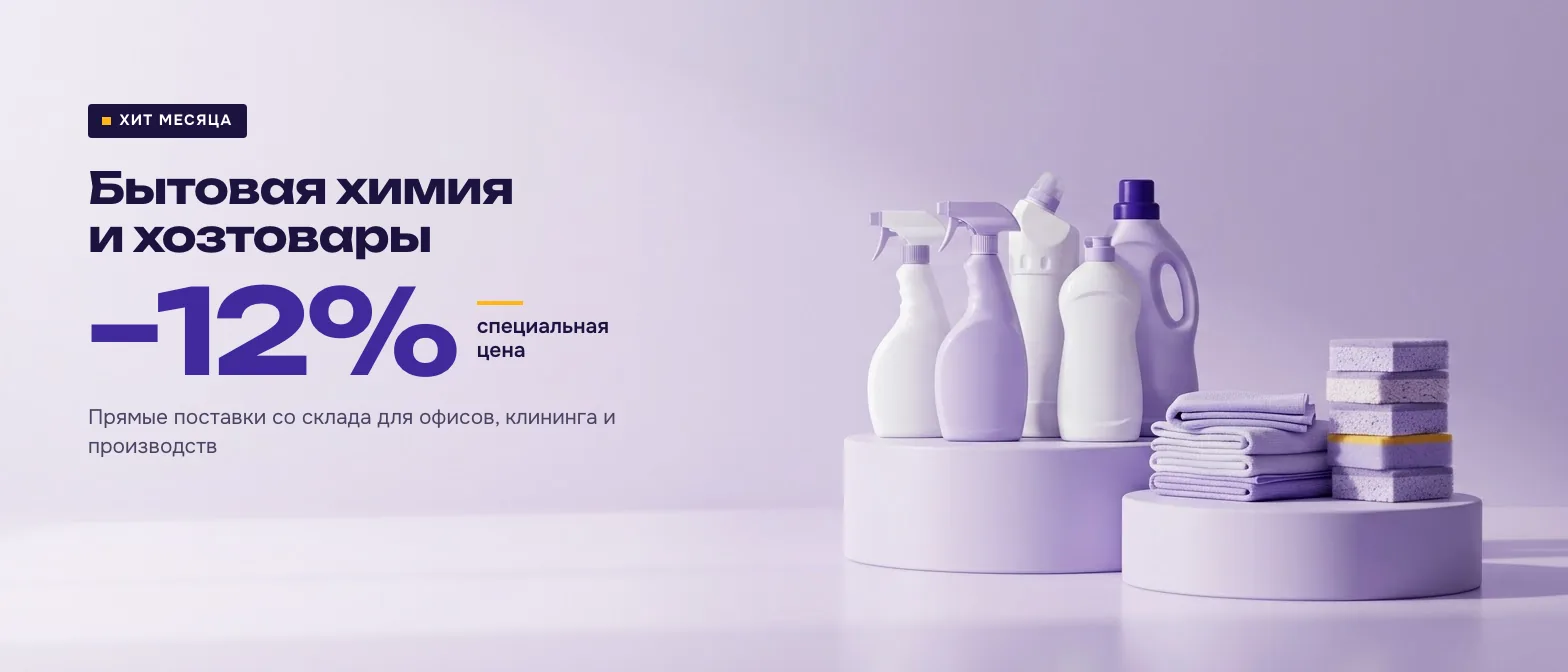
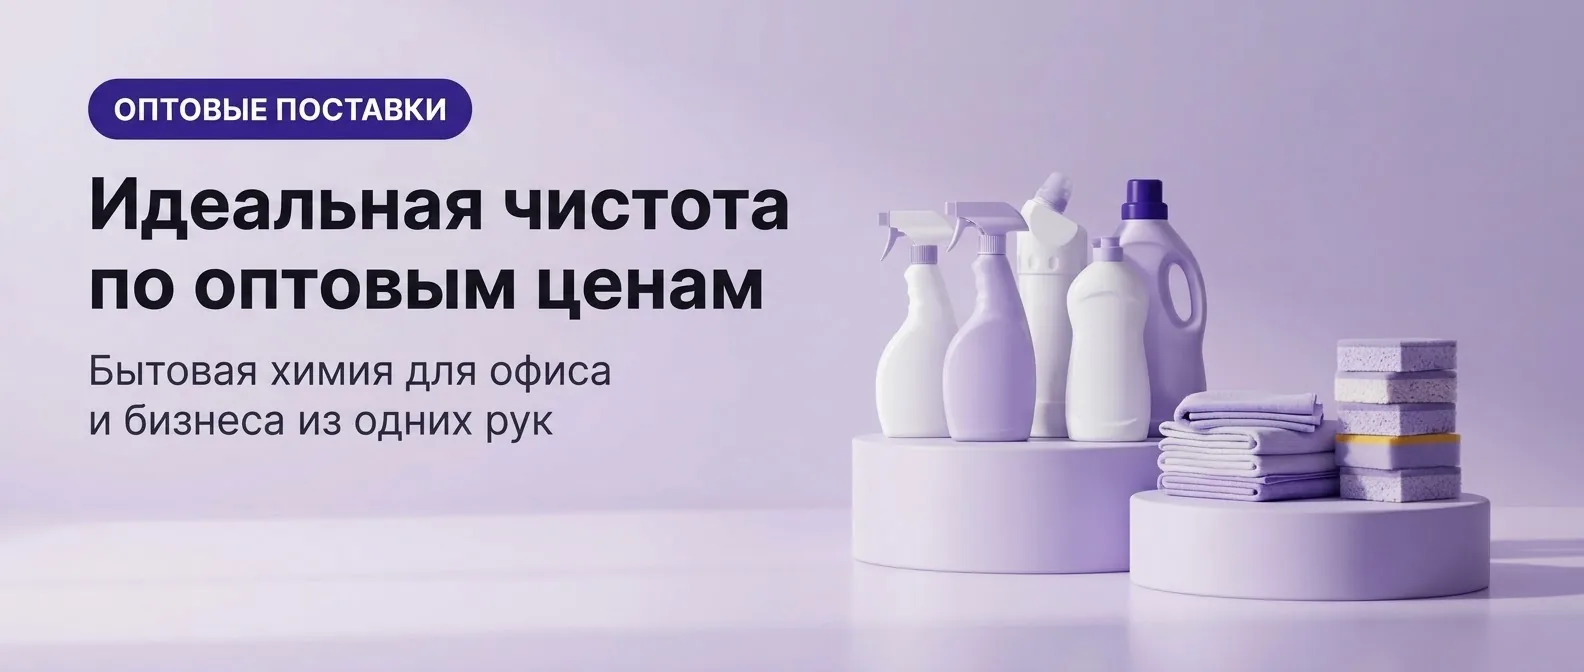
Ruscha maishiy kimyo banneri (kompyuter) yangilandi

diff --git a/CLAUDE.md b/CLAUDE.md
@@ -30,8 +30,8 @@ logo.svg, logo-s.svg           Vektor logotip va "S" belgisi (index.html ichiga 
 img/catalog/SP-001..112.jpg    Katalog rasmlari, fayl nomi = mahsulot kodi
 img/hero/hero-1..3.webp        Bosh sahifa bannerlari (2400 px); hero-N-m.webp: telefon uchun kesilgan varianti
 img/dirs/<kalit>.webp          Yo'nalish kartalari fotosi (640x1147, 9:16), kalit = DIRS kaliti
-img/promo-N-uz|ru.webp         Hero promo-slayderi, N = 1..4. Rasmlar foydalanuvchi tayyorlagan (2026-11-25): kompyuter 1584x672, telefon 928x1152. UZ telefonda matn markazda (4-slayd chapda), RU telefonda chapda. promo-1-ru.webp (kompyuter) hali eski shablondan, yangisi kutilmoqda. Matn rasmning o'zida, tugma HTML. Slayd tartibi: 4 (Yangi yil), 1, 2, 3. Telefonda tugma joyi slayd style'ida: UZ --mt/--ml/--mr, RU --rmt/--rml. 4-slaydda hilpiraydigan lenta: .ny-ribbon (SVG + SMIL, yozuvi .uz / .ru)
-tools/banner/                  Banner yasash: banner.html (shablon va UZ/RU matnlar, BANNERS), bg/N-d|m.jpg (Gemini fonlari, yozuvsiz), render.py (Chrome + Pillow, img/promo-* ni yozadi va telefon uchun --mt/--ml ni chiqaradi). Aksiya o'zgarsa: matnni BANNERS da tuzating, kerak bo'lsa fonni almashtiring, `python3 tools/banner/render.py N`. Hozir ishlatilmaydi (bannerlar tashqarida tayyorlanadi), faqat promo-1-ru.webp shu shablondan qolgan
+img/promo-N-uz|ru.webp         Hero promo-slayderi, N = 1..4. Rasmlar foydalanuvchi tayyorlagan (2026-11-25): kompyuter 1584x672, telefon 928x1152. UZ telefonda matn markazda (4-slayd chapda), RU telefonda chapda. Matn rasmning o'zida, tugma HTML. Slayd tartibi: 4 (Yangi yil), 1, 2, 3. Telefonda tugma joyi slayd style'ida: UZ --mt/--ml/--mr, RU --rmt/--rml. 4-slaydda hilpiraydigan lenta: .ny-ribbon (SVG + SMIL, yozuvi .uz / .ru)
+tools/banner/                  Banner yasash: banner.html (shablon va UZ/RU matnlar, BANNERS), bg/N-d|m.jpg (Gemini fonlari, yozuvsiz), render.py (Chrome + Pillow, img/promo-* ni yozadi va telefon uchun --mt/--ml ni chiqaradi). Aksiya o'zgarsa: matnni BANNERS da tuzating, kerak bo'lsa fonni almashtiring, `python3 tools/banner/render.py N`. Hozir ishlatilmaydi (bannerlar tashqarida tayyorlanadi)
 fonts/*.woff2                  Unbounded, Onest (variable) va Caveat (700, qisqartirilgan): lotin + kirill. @font-face index.html <style> boshida
 img/partners/*.webp, havas.svg  Hamkorlar logotiplari (balandligi 120 px, shaffof fon). Lentada monoxrom, hover'da asl rang. `PARTNERS` da oq logotip uchun `invert` ("alpha" yoki "bg"), ochiq rangli uchun `tone:"light"`
 supabase/schema.sql            profiles, orders jadvallari, RLS, ro'yxatdan o'tish trigger'i
